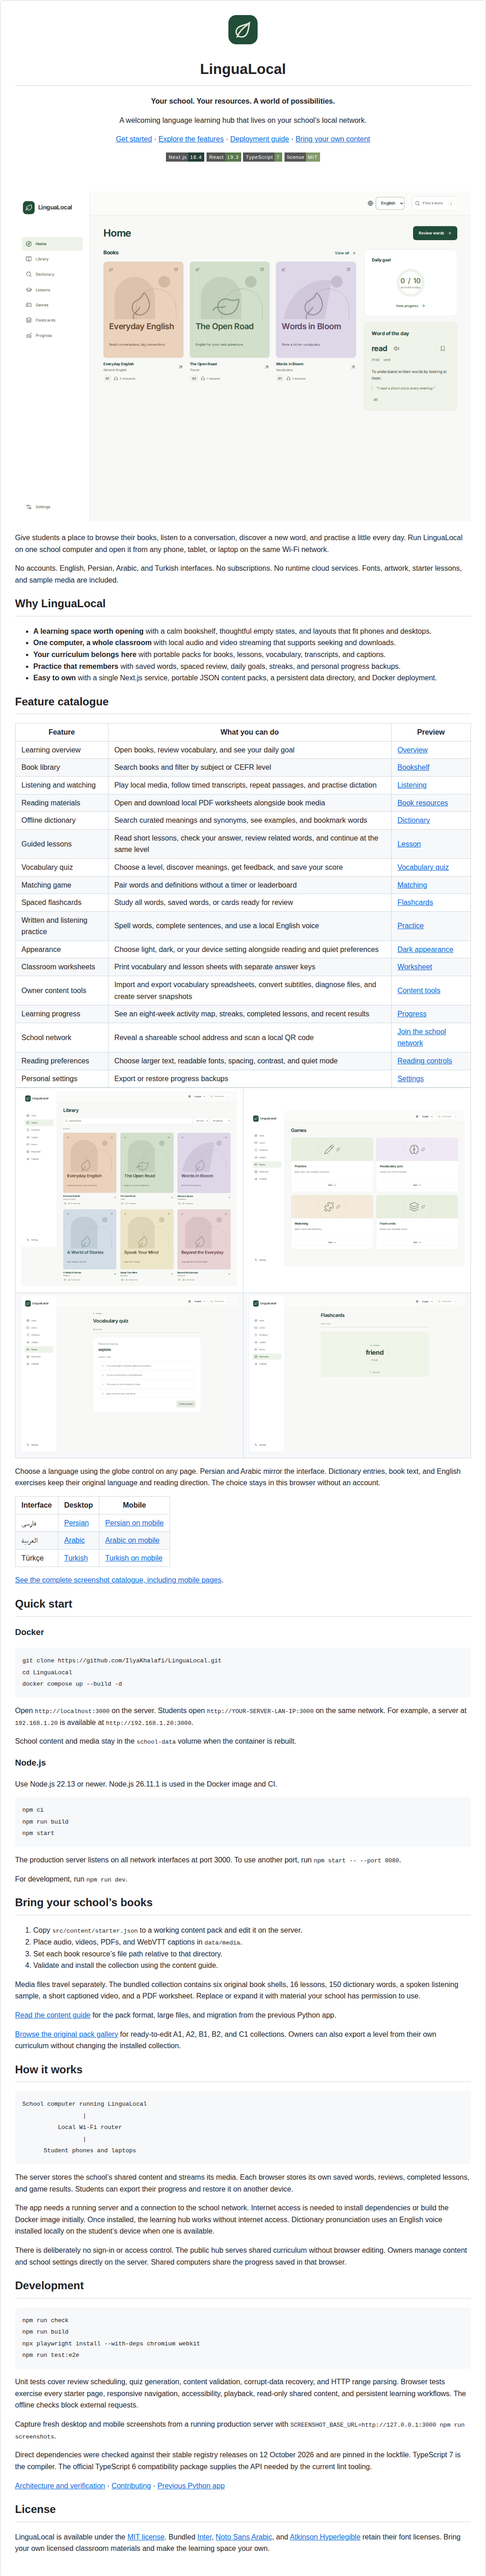
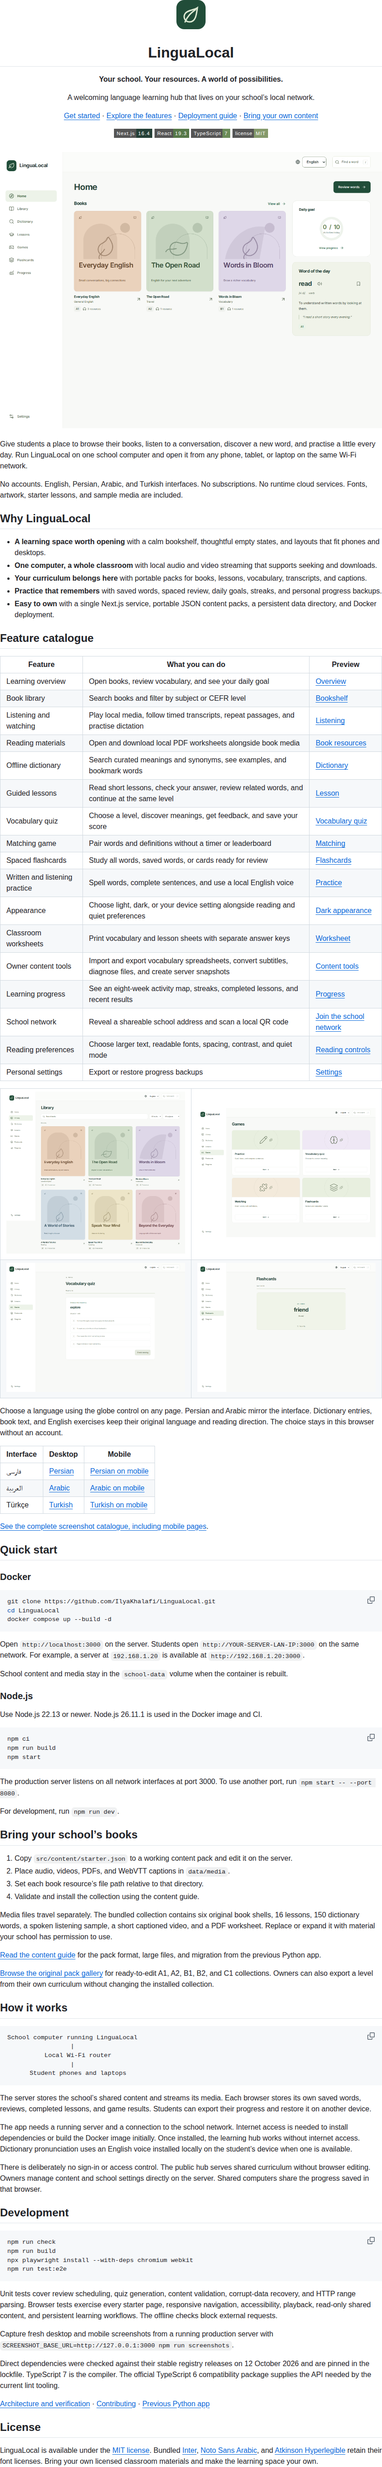
Capture README from the public repository

diff --git a/scripts/readme-preview.ts b/scripts/readme-preview.ts
@@ -1,0 +1,41 @@
+import path from "node:path";
+import { chromium } from "@playwright/test";
+import { runCommand } from "../src/lib/cli";
+
+runCommand(async () => {
+  const browser = await chromium.launch();
+  try {
+    const page = await browser.newPage({
+      viewport: { width: 1440, height: 1040 },
+      colorScheme: "light",
+    });
+    await page.goto("https://github.com/IlyaKhalafi/LinguaLocal", {
+      waitUntil: "domcontentloaded",
+      timeout: 90000,
+    });
+    const article = page.locator("article.markdown-body");
+    await article.waitFor();
+    await page.evaluate(() => document.fonts.ready);
+    await article.evaluate(async (element) => {
+      const images = [...element.querySelectorAll("img")];
+      await Promise.all(
+        images.map((image) => {
+          image.loading = "eager";
+          return image.decode();
+        }),
+      );
+      // Floating repository controls must not cover the captured document.
+      for (const node of document.querySelectorAll<HTMLElement>("body *")) {
+        if (element.contains(node)) continue;
+        const position = getComputedStyle(node).position;
+        if (position === "sticky" || position === "fixed")
+          node.style.setProperty("position", "static", "important");
+      }
+      window.scrollTo(0, 0);
+    });
+    await article.screenshot({ path: path.resolve("docs/readme-preview.png") });
+    console.log("Captured the published README");
+  } finally {
+    await browser.close();
+  }
+});

diff --git a/CONTRIBUTING.md b/CONTRIBUTING.md
@@ -45,6 +45,8 @@ Start with an [original example pack](examples/packs/README.md). Keep definition
 
 Validate the pack with `npm run content:validate -- your-pack.json`. Run `npm run content:diagnose -- your-pack.json` when including media. Add a short description of the intended CEFR level and classroom use in your pull request.
 
+Capture the published GitHub README with `npm run readme:preview` after pushing documentation changes. This command needs internet access and an installed Playwright Chromium browser. It checks that every README image decodes and excludes floating GitHub controls from the capture.
+
 ## Preparing a distribution
 
 Run the checks above before using `npm run release:package -- releases/lingualocal.tar.gz`. See the [deployment guide](docs/DEPLOYMENT.md) for platform requirements. Record user-visible changes in [CHANGELOG.md](CHANGELOG.md).
